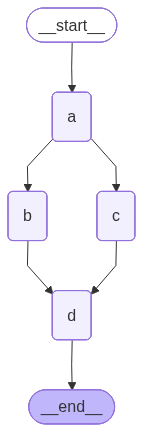
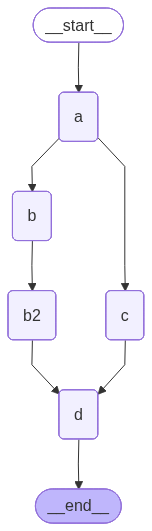
7 - 53 Parallel node fan-out and fan-in with extra steps

diff --git a/llm/udemy-langgraph-develop-llmpowered-aiagents/human-in-the-loop-memory/async.py b/llm/udemy-langgraph-develop-llmpowered-aiagents/human-in-the-loop-memory/async.py
@@ -1,4 +1,5 @@
 from dotenv import load_dotenv
+
 load_dotenv()
 
 
@@ -20,24 +21,27 @@ class ReturnNodeValue:
 
     def __call__(self, state: State) -> Any:
         import time
+
         time.sleep(1)
         print(f"Adding {self._value} to {state['aggregate']}")
         return {"aggregate": [self._value]}
+
 
 builder = StateGraph(State)
 builder.add_node("a", ReturnNodeValue("I'm A"))
 builder.add_edge(START, "a")
 builder.add_node("b", ReturnNodeValue("I'm B"))
+builder.add_node("b2", ReturnNodeValue("I'm B2"))
 builder.add_node("c", ReturnNodeValue("I'm C"))
 builder.add_node("d", ReturnNodeValue("I'm D"))
 builder.add_edge("a", "b")
 builder.add_edge("a", "c")
-builder.add_edge("b", "d")
-builder.add_edge("c", "d")
+builder.add_edge("b", "b2")
+builder.add_edge(["b2", "c"], "d")
 builder.add_edge("d", END)
 graph = builder.compile()
 graph.get_graph().draw_mermaid_png(output_file_path="async.png")
 
 if __name__ == "__main__":
-    print("Hello Async Graph")
+    print("Helo Async Graph")
     graph.invoke({"aggregate": []}, {"configurable": {"thread_id": "foo"}})
